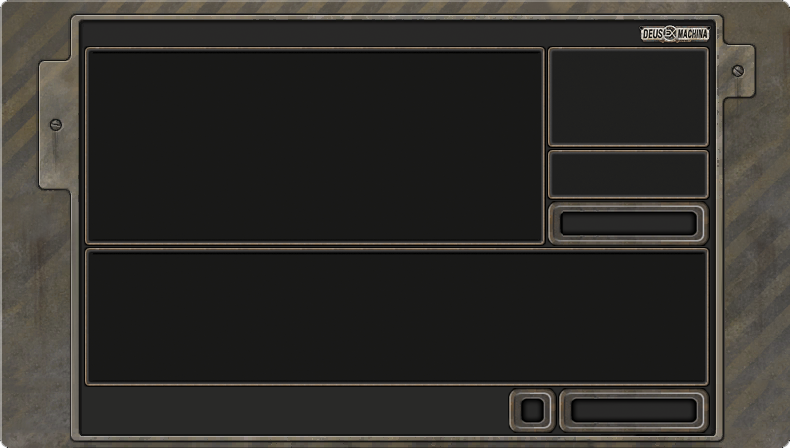
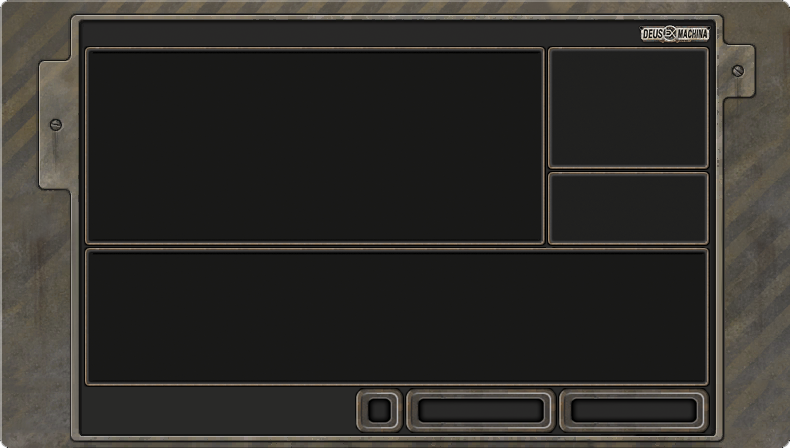
Added third launch param

Changed region(s): [[0.6684, 0.4375, 0.9114, 0.5625], [0.4253, 0.8438, 0.6684, 0.9688], [0.6684, 0.3125, 0.9114, 0.4062]]

diff --git a/ExMachinaConversionLauncher/MainWindow.xaml b/ExMachinaConversionLauncher/MainWindow.xaml
@@ -88,10 +88,10 @@
         <ImageBrush ImageSource="InnerResourse/Bg.png"/>
     </Window.Background>
     <Grid>
-        <Button Foreground="#fffccc"  Content="               Запустить" HorizontalAlignment="Left" VerticalAlignment="Top" Width="150" Margin="555,212,0,0" Click="StartGame_Click" Template="{DynamicResource ButtonControlTemplate1}"/>
+        <Button Foreground="#fffccc"  Content="              Запустить" HorizontalAlignment="Left" VerticalAlignment="Top" Width="140" Margin="412.86,399,0,0" Click="StartGame_Click" Template="{DynamicResource ButtonControlTemplate1}" Height="16"/>
         <Button Foreground="#fffccc"  Content="                Выход" HorizontalAlignment="Left" VerticalAlignment="Top" Width="140" Margin="566,399,0,0" Click="CloseApp_Click" Template="{DynamicResource ButtonControlTemplate1}" Height="16"/>
-        <Button Foreground="#fffccc"  HorizontalAlignment="Left" VerticalAlignment="Top" Width="22" Margin="523,399,0,0" Click="Settings_Click" Template="{DynamicResource ButtonControlTemplate2}" Height="16"/>
-        <ListBox x:Name="ListOfMods" HorizontalAlignment="Left" Height="94" Margin="551,50,0,0" VerticalAlignment="Top" Width="155" Background="#FFCBCBC5" SelectionChanged="ListOfMods_SelectionChanged">
+        <Button Foreground="#fffccc"  HorizontalAlignment="Left" VerticalAlignment="Top" Width="22" Margin="369.86,399,0,0" Click="Settings_Click" Template="{DynamicResource ButtonControlTemplate2}" Height="16"/>
+        <ListBox x:Name="ListOfMods" HorizontalAlignment="Left" Height="115" Margin="551,50,0,0" VerticalAlignment="Top" Width="155" Background="#FFCBCBC5" SelectionChanged="ListOfMods_SelectionChanged">
             <ListBox.Resources>
                 <Style TargetType="Border">
                     <Setter Property="CornerRadius" Value="5"/>
@@ -131,7 +131,7 @@
         </Hyperlink.Style>
     </Hyperlink>
         </TextBlock>
-        <ListBox x:Name="ListOfLaunchMode" HorizontalAlignment="Left" Height="42" Margin="551,153,0,0" VerticalAlignment="Top" Width="155" Background="#FFCBCBC5" SelectionChanged="ListOfMods_SelectionChanged" RenderTransformOrigin="0.5,0.5">
+        <ListBox x:Name="ListOfLaunchMode" HorizontalAlignment="Left" Height="67" Margin="551,174.736,0,0" VerticalAlignment="Top" Width="155" Background="#FFCBCBC5" SelectionChanged="ListOfMods_SelectionChanged" RenderTransformOrigin="0.5,0.5">
             <ListBox.Resources>
                 <Style TargetType="{x:Type Border}">
                     <Setter Property="CornerRadius" Value="5"/>

diff --git a/ExMachinaConversionLauncher/MainWindow.xaml.cs b/ExMachinaConversionLauncher/MainWindow.xaml.cs
@@ -40,7 +40,7 @@ namespace ExMachinaConversionLauncher
                     ListOfMods.Items.Add(game);
                 }
                 ListOfMods.SelectedItem = _configReader.LastLaunchGame;
-                string[] launchMods = { "Win 7/8/8.1/10", "Win Xp (and lower)" };
+                string[] launchMods = { "Первое ядро CPU", "Второе ядро CPU", "Все ядра CPU" };
                 ListOfLaunchMode.ItemsSource = launchMods;
                 ListOfLaunchMode.SelectedItem = _configReader.LastLaunchMode;
 
@@ -111,6 +111,10 @@ namespace ExMachinaConversionLauncher
                 string console = string.Empty;
 
                 if (ListOfLaunchMode.SelectedIndex == 0)
+                {
+                    parametr = " /LOW /NODE 0 /AFFINITY 0x1";
+                }
+                else if(ListOfLaunchMode.SelectedIndex == 1)
                 {
                     parametr = " /AFFINITY 0x2";
                 }

diff --git a/ExMachinaConversionLauncher/Properties/AssemblyInfo.cs b/ExMachinaConversionLauncher/Properties/AssemblyInfo.cs
@@ -51,5 +51,5 @@ using System.Windows;
 // You can specify all the values or you can default the Build and Revision Numbers 
 // by using the '*' as shown below:
 // [assembly: AssemblyVersion("1.0.*")]
-[assembly: AssemblyVersion("1.0.0.1")]
-[assembly: AssemblyFileVersion("1.0.0.1")]
+[assembly: AssemblyVersion("1.0.0.2")]
+[assembly: AssemblyFileVersion("1.0.0.2")]
